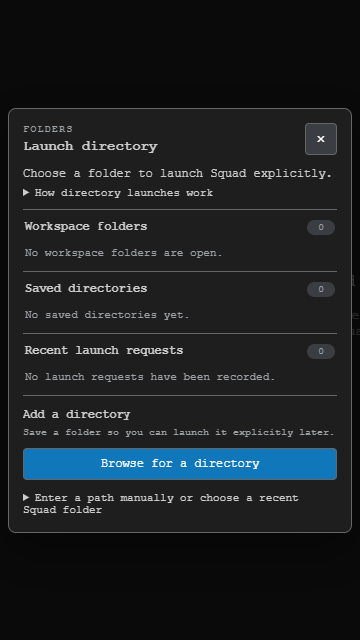
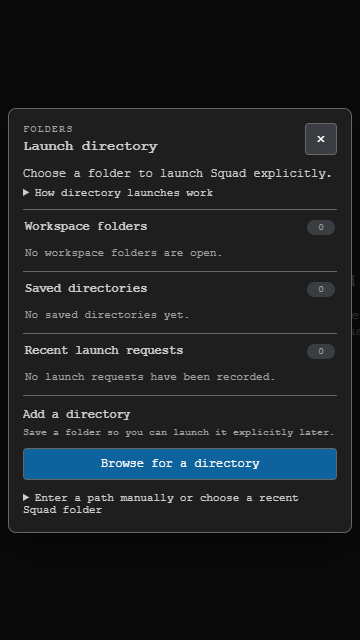
Refresh launch directory evidence after footer fix

Changed region(s): [[0.0611, 0.6875, 0.9472, 0.75]]

diff --git a/docs/evidence/issue-134/after/README.md b/docs/evidence/issue-134/after/README.md
@@ -1,0 +1,31 @@
+# Launch directory capture captions
+
+All images in this directory were captured from source
+`9da1daa54a02c8147d2fe579cbbbf22c969e8d8d`.
+They use the production webview with synthetic catalog data and a mocked native
+host. These are local layout captures, not CI, native VS Code integration,
+standalone directory-management, or real CLI execution evidence.
+
+| Files | Viewport | Caption |
+|---|---|---|
+| `directory-dialog-invalid-1280x900.png`, `directory-dialog-invalid-360x640.png` | 1280x900, 360x640 respectively | Unavailable directory with disabled Launch and a concise row-level reason |
+| `directory-dialog-workspace-1280x900.png`, `directory-dialog-workspace-360x640.png` | 1280x900, 360x640 respectively | Valid workspace folder with explicit Launch |
+| `directory-dialog-saved-1280x900.png`, `directory-dialog-saved-360x640.png` | 1280x900, 360x640 respectively | Long saved list scrolled to the last rows; collapsed Add footer, Browse, and manual-entry disclosure remain visible |
+| `directory-dialog-empty-1280x900.png`, `directory-dialog-empty-360x640.png` | 1280x900, 360x640 respectively | Empty catalog grouped by purpose |
+| `directory-dialog-manual-stress-360x640.png` | 360x640 | Scrollable manual entry with 10 suggestions, expanded errors, and preserved draft |
+
+The narrow saved-list assertion checks footer/control bounds before any locator
+auto-scroll. The capture then exercises Manage on the last saved row.
+`directory-dialog-report.json` records the source, assertions, and geometry.
+
+Product SHA-256:
+
[2 lines of base64/hex data omitted]
+
+Commands: `npm run build:webview` and
+`ACCEPTANCE_OUTPUT_DIR=<evidence directory> node scripts\acceptance-directory-suggestions.cjs`.
+Both passed; Vite reported its chunk-size warning. The harness closed all pages,
+the browser, and the HTTP server. `.github/workflows/squad-ci.yml` does not run
+this capture harness; its lint, types, unit tests, builds, standalone checks,
+and packaging are separate CI validation.
